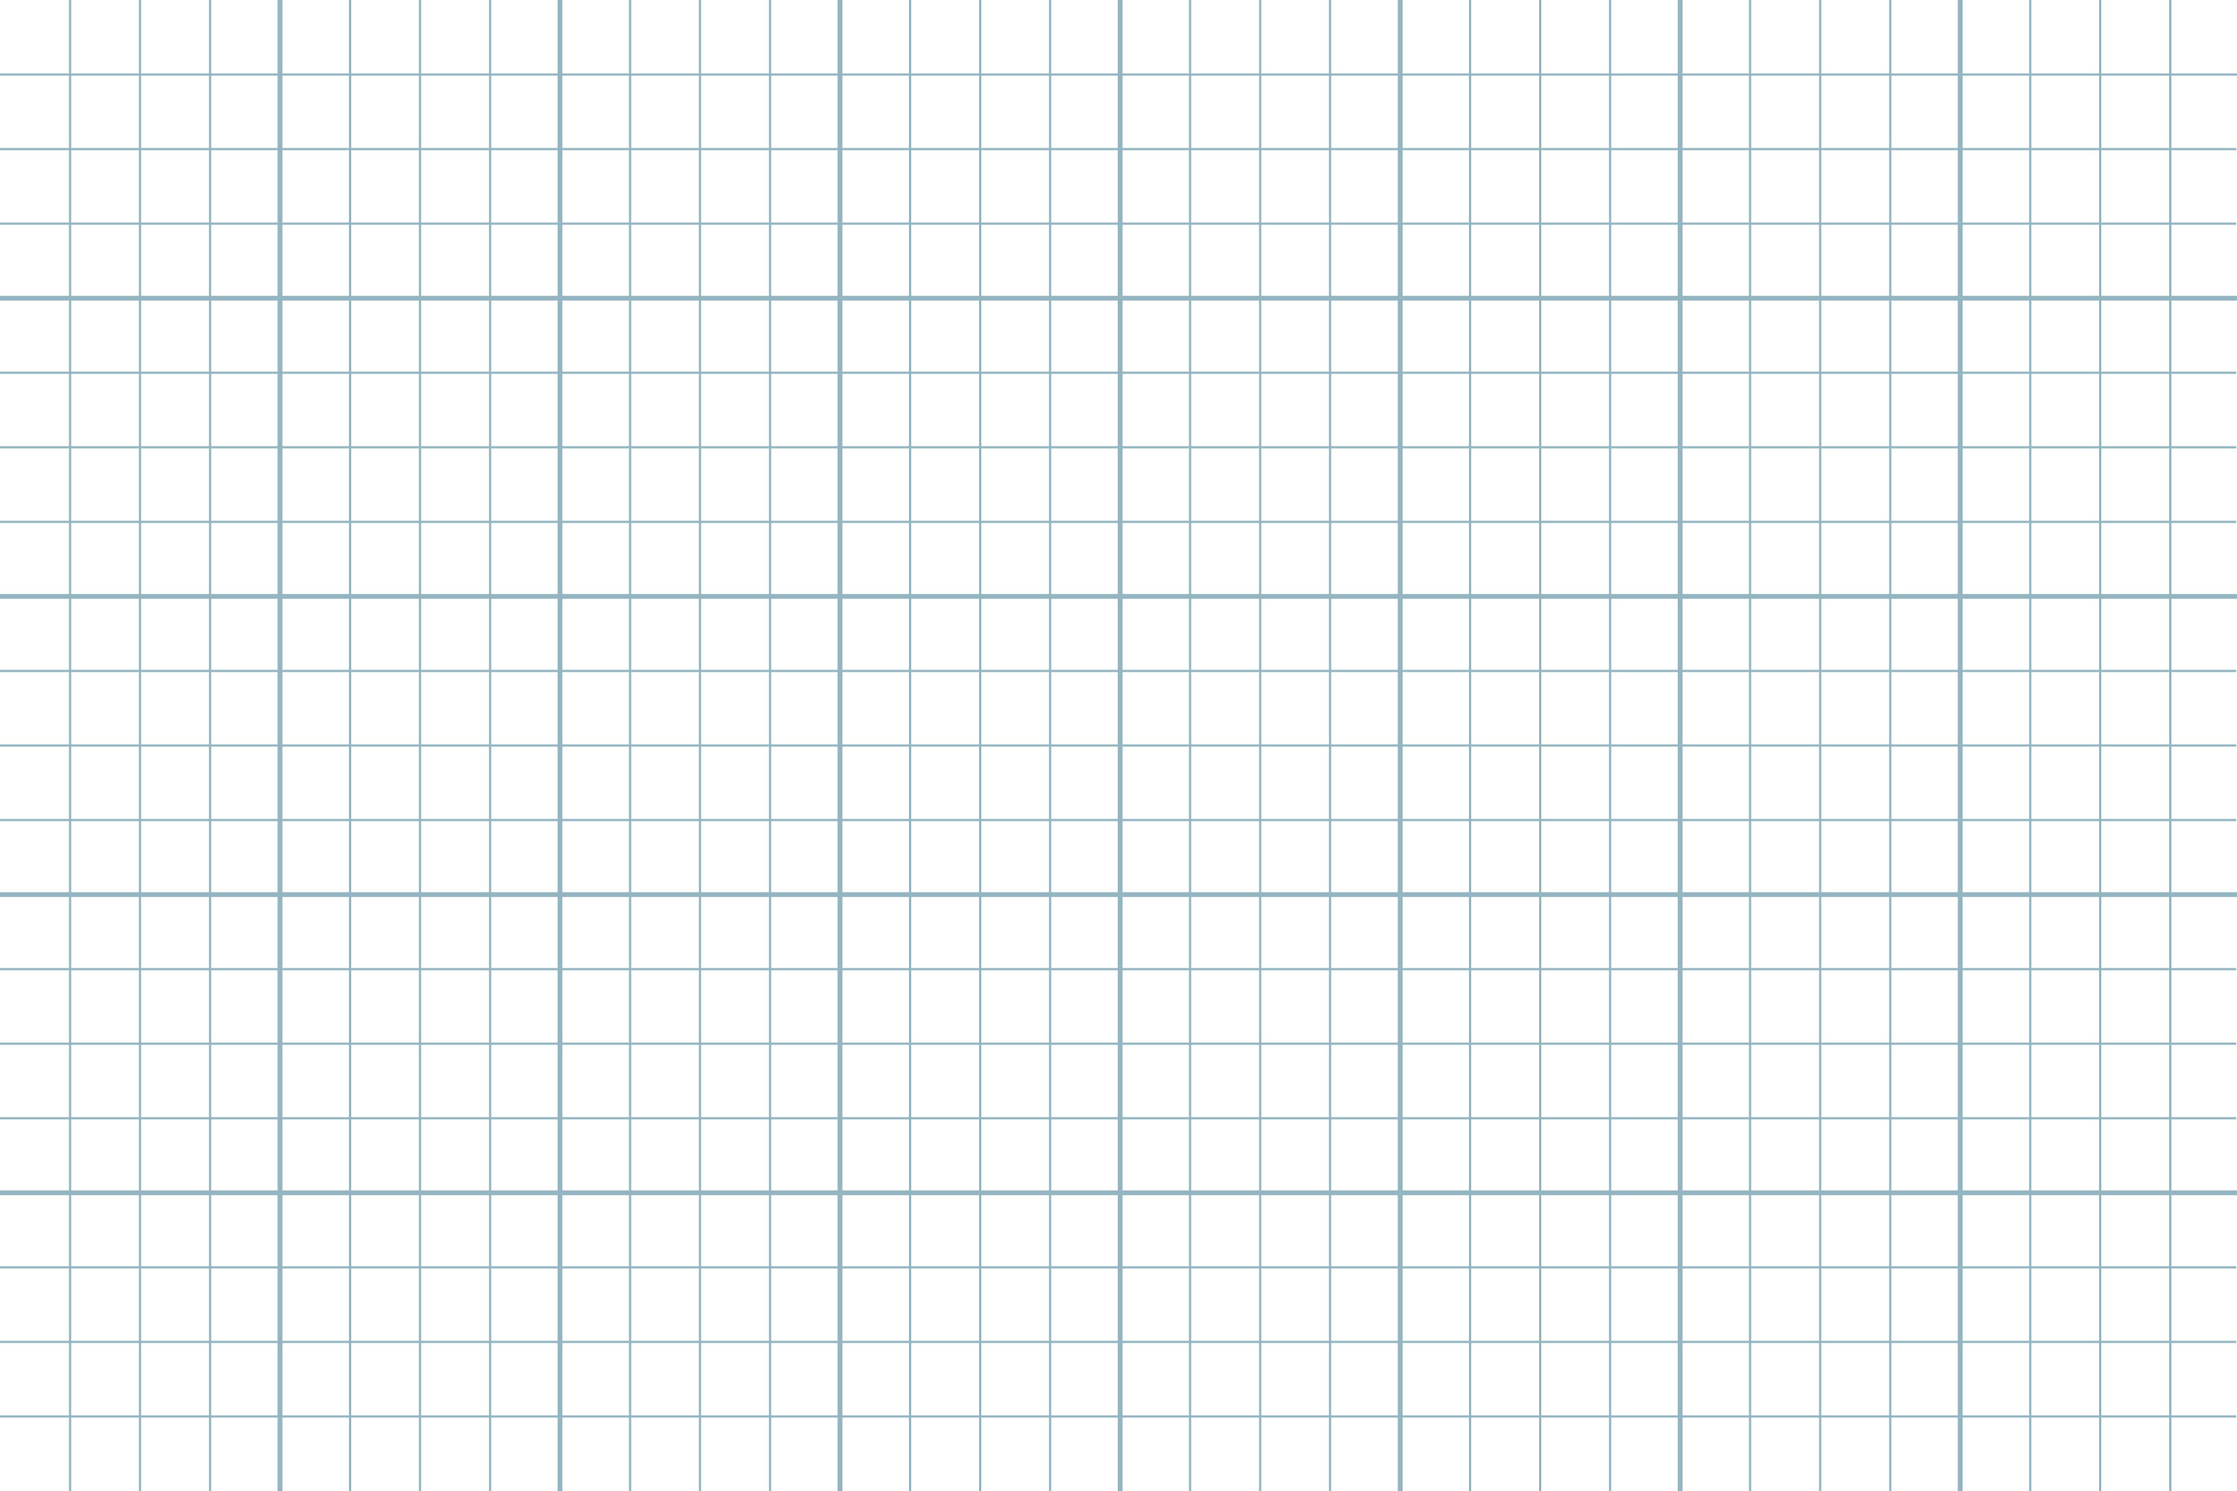
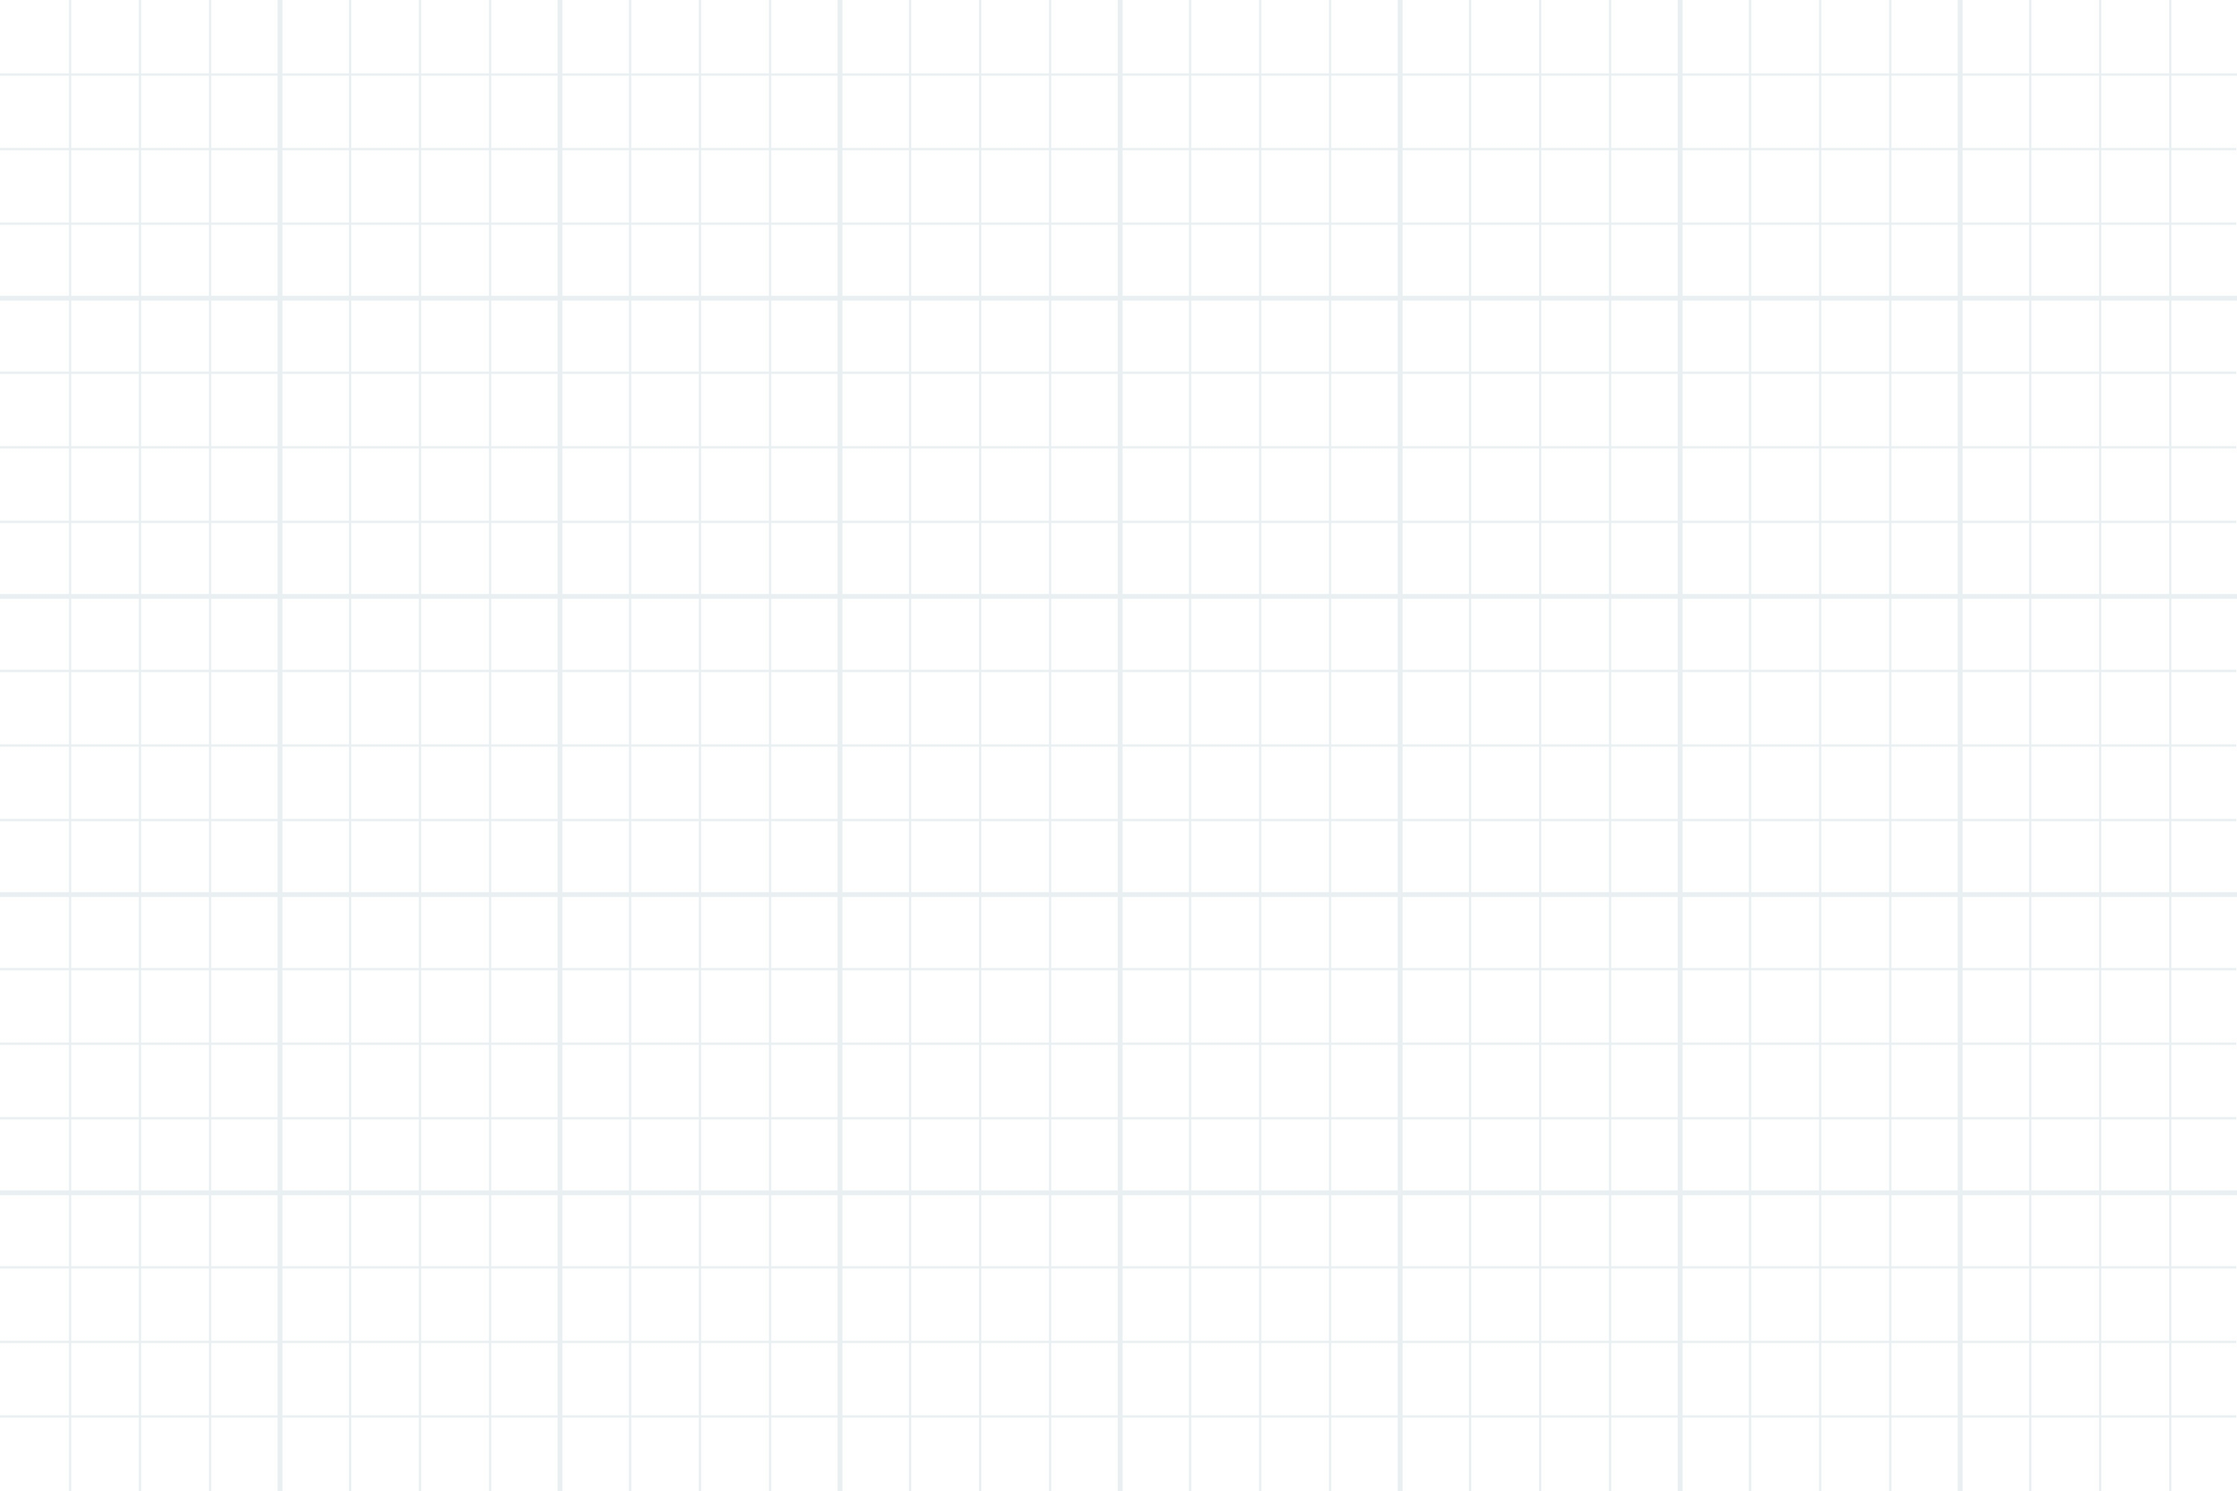
finished info messages

diff --git a/src/room_settings/room_settings.jsx b/src/room_settings/room_settings.jsx
@@ -4,7 +4,7 @@ import './room_settings.css';
 import { useSound } from 'use-sound'
 import { useWebSocket } from '../WebSocketContext.jsx';
 
-export function Room_Settings({user, set_user, set_info_message}) {
+export function Room_Settings({user, set_user, set_info_message, info_message}) {
   const navigate = useNavigate();
   const [button_click] = useSound('buttonclick.mp4', { volume: 3 });
   const ws = useWebSocket();
@@ -29,15 +29,16 @@ export function Room_Settings({user, set_user, set_info_message}) {
     localStorage.setItem("guesser", "")
     localStorage.setItem("word_giver", "")
     localStorage.setItem("the_word", "")
-    check_auth().then((verified) => {if(!verified){navigate('/')}
     localStorage.setItem("real_words?", "false")
-    set_user(localStorage.getItem('currentUser'))
+    check_auth().then((verified) => {if(!verified){navigate('/')}
+    
     })
     if (ws) {
       if (ws.readyState === WebSocket.OPEN) {
         ws.send(JSON.stringify({
           type: 'get_players',  
           room: localStorage.getItem('currentRoomNumber'),
+          player: localStorage.getItem('currentUser')
         }));
       }
       ws.onopen = () => {
@@ -47,7 +48,12 @@ export function Room_Settings({user, set_user, set_info_message}) {
         const data = JSON.parse(event.data);
 
         if (data.type === 'players') {
-          setPlayers(data.message);
+          console.log(data.message.number, players)
+          if (data.message.player && data.message.number != 1 && info_message.slice(-2) != "n!" && info_message.slice(-2) != "s!") {
+            console.log(info_message.slice(-2))
+            set_info_message(`${data.message.player} has joined the room!`)
+          }
+          setPlayers(data.message.number);
         }
         if (data.type === 'roles') {
           handle_roles(data.message.guesser, data.message.word_giver)
@@ -58,6 +64,7 @@ export function Room_Settings({user, set_user, set_info_message}) {
         if (data.type === 'start') {
           localStorage.setItem("guesser", data.message.guesser)
           localStorage.setItem("word_giver", data.message.word_giver)
+          set_info_message(`${data.message.player} started the game!`)
           navigate('/input_word')
         }
         if (data.type === 'player_left') {
@@ -65,6 +72,7 @@ export function Room_Settings({user, set_user, set_info_message}) {
             type: 'get_players',  
             room: localStorage.getItem('currentRoomNumber'),
           }));
+          set_info_message("A player left the room!")
         }
       };
       ws.onclose = () => {
@@ -85,7 +93,9 @@ export function Room_Settings({user, set_user, set_info_message}) {
       set_current_role("")
     }
   }, [players])
-  
+  React.useEffect(() => {
+    set_user(localStorage.getItem('currentUser'))
+  }, [])
   function change_real_words() {
     if (localStorage.getItem("real_words?") == "true") {
       localStorage.setItem("real_words?", "false")
@@ -103,6 +113,7 @@ export function Room_Settings({user, set_user, set_info_message}) {
         ws.send(JSON.stringify({
           type: 'start_game',  
           room: localStorage.getItem('currentRoomNumber'),
+          player: localStorage.getItem('currentUser'),
           guesser: current_guesser,
           word_giver: current_word_giver
         }));

diff --git a/service/websocket.js b/service/websocket.js
@@ -41,7 +41,7 @@ function room_handler(httpServer) {
                 }
                 if (rooms[room].length >= 1) {
                     rooms[room].forEach((client) => {
-                        client.send(JSON.stringify({ type: 'players', message: rooms[room].length }));
+                        client.send(JSON.stringify({ type: 'players', message: {number: rooms[room].length, player: player} }));
                     });
                 }
             }
@@ -62,6 +62,10 @@ function room_handler(httpServer) {
                     rooms[room] = rooms[room].filter((client) => client !== ws);
                     if (rooms[room].length === 0) {
                         delete rooms[room];
+                    } else if (rooms[room].length === 1) {
+                        rooms[room].forEach((client) => {
+                            client.send(JSON.stringify({ type: 'player_left', message: true }));
+                        });
                     }
                 }
             }
@@ -84,7 +88,7 @@ function room_handler(httpServer) {
                 }
                 if (rooms[room].length === 2) {
                     rooms[room].forEach((client) => {
-                        client.send(JSON.stringify({ type: 'start', message: { guesser: guesser, word_giver: word_giver } }));
+                        client.send(JSON.stringify({ type: 'start', message: { guesser: guesser, word_giver: word_giver, player: player } }));
                     });
                 }
             }
@@ -96,7 +100,7 @@ function room_handler(httpServer) {
                 }
                 if (rooms[room].length === 2) {
                     rooms[room].forEach((client) => {
-                        client.send(JSON.stringify({ type: 'word_submitted', message: the_word }));
+                        client.send(JSON.stringify({ type: 'word_submitted', message: {word: the_word, player: player}}));
                     });
                 }
             }
@@ -117,7 +121,7 @@ function room_handler(httpServer) {
                 }
                 if (rooms[room].length === 2) {
                     rooms[room].forEach((client) => {
-                        client.send(JSON.stringify({ type: 'to_scores', message: true }));
+                        client.send(JSON.stringify({ type: 'to_scores', message: player }));
                     });
                 }
             }
@@ -127,7 +131,7 @@ function room_handler(httpServer) {
                 }
                 if (rooms[room].length === 2) {
                     rooms[room].forEach((client) => {
-                        client.send(JSON.stringify({ type: 'playing_again', message: true }));
+                        client.send(JSON.stringify({ type: 'playing_again', message: player }));
                     });
                 }
             }

diff --git a/src/hangman/hangman.jsx b/src/hangman/hangman.jsx
@@ -33,6 +33,7 @@ export function Hangman({user, set_info_message}) {
 
   React.useEffect(() => {
     if (game_data.the_hidden_word.indexOf("_") == -1) {
+      set_info_message(`${localStorage.getItem("guesser")} won!`)
       if (is_guessing) {
         win_sfx()
         set_win(true)
@@ -47,6 +48,7 @@ export function Hangman({user, set_info_message}) {
       }
       
     } else if (game_data.incorrect_guesses.length >= 9) {
+      set_info_message(`${localStorage.getItem("word_giver")} won!`)
       if (is_guessing) {
         lose_sfx()
         set_lose(true)
@@ -88,18 +90,22 @@ export function Hangman({user, set_info_message}) {
     ws.onmessage = (event) => {
       const data = JSON.parse(event.data);
       if (data.type === 'players' && data.message < 2) {
+        set_info_message("A player left the room!")
         navigate('/room_settings')
       }
       if (data.type === 'return_guess') {
         handle_correct_guess(data.message)
       }
       if (data.type === 'playing_again') {
+        set_info_message(`${data.message} wants to play again!`)
         navigate('/room_settings')
       }
       if (data.type === 'to_scores') {
+        set_info_message(`${data.message} wants to see the high scores!`)
         navigate('/scores')
       }
       if (data.type === 'player_left') {
+        set_info_message("A player left the room!")
         navigate('/room_settings')
       }
     }
@@ -184,8 +190,10 @@ export function Hangman({user, set_info_message}) {
     let previous_word = game_data.the_hidden_word
     let new_word = find_all_letters(letter, 0, previous_word)
     if (previous_word == new_word) {
+      set_info_message(`${localStorage.getItem("word_giver")} scored 50 points!`)
       log_guess(letter, false, new_word)
     } else {
+      set_info_message(`${localStorage.getItem("guesser")} scored 50 points!`)
       log_guess(letter, true, new_word)
     }
   }
@@ -227,6 +235,7 @@ export function Hangman({user, set_info_message}) {
         ws.send(JSON.stringify({
           type: 'play_again',
           room: localStorage.getItem('currentRoomNumber'),
+          player: localStorage.getItem('currentUser')
         }));
       }
     } else if (type == "scores") {
@@ -234,6 +243,7 @@ export function Hangman({user, set_info_message}) {
         ws.send(JSON.stringify({
           type: 'scores',
           room: localStorage.getItem('currentRoomNumber'),
+          player: localStorage.getItem('currentUser')
         }));
       }
     }

diff --git a/src/app.jsx b/src/app.jsx
@@ -28,7 +28,7 @@ export default function App() {
 
     const [user, set_user] = React.useState(localStorage.getItem('currentUser'))
     const [button_click] = useSound('buttonclick.mp4', { volume: 3 });
-    const [info_message, set_info_message] = React.useState("Login or Signup to get started!")
+    const [info_message, set_info_message] = React.useState("Login or sign up to get started!")
     React.useEffect(() => {
         set_user(localStorage.getItem('currentUser'))
     }, [])
@@ -40,6 +40,7 @@ export default function App() {
           method: 'delete',
         }).finally(() => {
           set_user(null)
+          set_info_message("Login or sign up to get started!")
         });
     }
 
@@ -56,7 +57,7 @@ export default function App() {
                         <Route path='/' element={<Login user = {user} set_info_message = {set_info_message}/>} exact />
                         <Route path='/hangman' element={<Hangman user = {user} set_info_message = {set_info_message} />} />
                         <Route path='/scores' element={<Scores user = {user} set_info_message = {set_info_message} />} />
-                        <Route path='/room_settings' element={<Room_Settings user = {user} set_user = {set_user} set_info_message = {set_info_message}/>} />
+                        <Route path='/room_settings' element={<Room_Settings user = {user} set_user = {set_user} set_info_message = {set_info_message} info_message={info_message}/>} />
                         <Route path='/input_word' element={<Input_Word user = {user} set_info_message = {set_info_message} />} />
                         <Route path='*' element={<NotFound />} />
                     </Routes>

diff --git a/src/login/login.jsx b/src/login/login.jsx
@@ -22,17 +22,26 @@ export function Login({user, set_info_message}) {
         type: 'leave_room',
       });
       try {
+        console.log(localStorage.getItem('currentUser'))
         ws.send(leave_info);
         ws.send(JSON.stringify({
           type: 'get_players',  
           room: localStorage.getItem('currentRoomNumber'),
+          player: localStorage.getItem('currentUser'),
         }));
+        if (localStorage.getItem('currentRoomNumber')) {
+          ws.send(JSON.stringify({
+            type: 'leave_room',  
+            room: localStorage.getItem('currentRoomNumber'),
+          }));
+        }
     } catch (error) {
       set_error_message("Error: Connection failed, try refreshing the page.")
     }
     ws.onmessage = (event) => {
       const data = JSON.parse(event.data);
       if (data.type === 'join_succeeded') {
+        set_info_message(`${localStorage.getItem("currentUser")} has joined the room!`)
         navigate('/room_settings')
       } else if (data.type === 'join_failed') {
         set_error_message("Room is full!")
@@ -70,6 +79,8 @@ export function Login({user, set_info_message}) {
   React.useEffect(() => {
     if (logged_in) {
       set_info_message("Join a room to get started!")
+    } else {
+      set_info_message("Login or sign up to get started!")
     }
   }, [logged_in]);
   async function login() {

diff --git a/src/room_settings/input_word.jsx b/src/room_settings/input_word.jsx
@@ -37,13 +37,16 @@ export function Input_Word({user, set_info_message}) {
       ws.onmessage = (event) => {
         const data = JSON.parse(event.data);
         if (data.type === 'players' && data.message < 2) {
+          set_info_message("A player left the room!")
           navigate('/room_settings')
         }
         if (data.type === 'word_submitted') {
-          localStorage.setItem("the_word", data.message)
+          localStorage.setItem("the_word", data.message.word)
+          set_info_message(`${data.message.player} is guessing...`)
           navigate('/hangman')
         }
         if (data.type === 'player_left') {
+          set_info_message("A player left the room!")
           navigate('/room_settings')
         }
       }
@@ -79,6 +82,7 @@ export function Input_Word({user, set_info_message}) {
           type: 'submit_word',
           room: localStorage.getItem('currentRoomNumber'),
           the_word: the_word,  
+          player: localStorage.getItem("guesser")
         }));
       }
     } else if (key == "Enter" || invalid_word) {

diff --git a/src/scores/scores.jsx b/src/scores/scores.jsx
@@ -44,12 +44,15 @@ export function Scores({user, set_info_message}) {
     ws.onmessage = (event) => {
       const data = JSON.parse(event.data);
       if (data.type === 'players' && data.message < 2) {
+        set_info_message("A player left the room!")
         navigate('/room_settings')
       }
       if (data.type === 'playing_again') {
+        set_info_message(`${data.message} wants to play again!`)
         navigate('/room_settings')
       }
       if (data.type === 'player_left') {
+        set_info_message("A player left the room!")
         navigate('/room_settings')
       }
     };
@@ -83,6 +86,7 @@ export function Scores({user, set_info_message}) {
       ws.send(JSON.stringify({
         type: 'play_again',
         room: localStorage.getItem('currentRoomNumber'),
+        player: localStorage.getItem('currentUser'),
       }));
     }
   }

diff --git a/index.css b/index.css
@@ -5,8 +5,7 @@ body, html {
 body {
     background-image: url("/graph-background.jpg");
     background-size: cover;
-    background-color: #efefef;
-    background-blend-mode: lighten;
+    background-color: #ffffff2b;
     padding-top: 0px;
     width: 100%;
     position: absolute;

diff --git a/src/app.css b/src/app.css
@@ -2,9 +2,6 @@
     font-family: "VT323", Arial, Helvetica, sans-serif;
     color: black;
 }
-
-
-
 header, footer {
     z-index: 1;
 }
